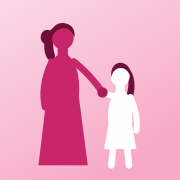
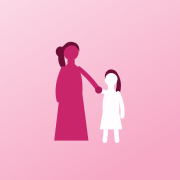
Fix consent-gate bypass, dark-mode wordmark, mobile emergency order, dead code
- ConsentGate: raise its z-index above everything (including the bottom tab
  bar, which tied with it and — being later in the DOM — was rendering on
  top of and staying clickable through the "mandatory" terms modal); add
  role="dialog"/aria-modal, a focus trap, a body scroll lock, and a
  keyboard-focusable scroll region so the box can actually be read without
  a mouse
- Wordmark: --logo-word-dv/-en now resolve to the brand handoff's exact
  colours in light mode and to --rose-deep in dark mode — the literal
  handoff color for the Latin wordmark computed to ~1.3:1 contrast against
  the dark theme's background, effectively invisible
- Home hero: give the emergency panel CSS order priority over the
  decorative mic orb once the layout stacks on a phone, so 108/112 aren't
  pushed down by an illustration
- apple-touch-icon.png regenerated with real safe-zone padding — the
  previous version was close enough to full-bleed that a maskable circular
  crop would have clipped the mark
- Wire the orphaned LiteToggle into the header utility strip (it names its
  own home as "beside language and theme" in its own comment) and fix its
  reference to a nonexistent "fill" icon now that it's actually visible;
  delete EducationCard.jsx, dead code fully superseded by SakhiNavigator's
  own KnowledgeCard

Changed region(s): [[0.1944, 0.1111, 0.7778, 0.9444]]

diff --git a/client/src/components/ConsentGate.jsx b/client/src/components/ConsentGate.jsx
@@ -20,11 +20,44 @@ export default function ConsentGate({ children }) {
   const [checked, setChecked] = useState(false);
   const [reachedEnd, setReachedEnd] = useState(false);
   const scrollRef = useRef(null);
+  const modalRef = useRef(null);
+  const titleId = "consent-gate-title";
 
   useEffect(() => {
     setConsented(sessionStorage.getItem(CONSENT_KEY) === "true");
     setChecked(true);
   }, []);
+
+  // A modal that only *looks* blocking isn't one: lock the page behind it,
+  // hide the bottom tab bar (it shares the header's z-index with nothing
+  // that should ever sit above this), and keep Tab from leaving the dialog.
+  useEffect(() => {
+    if (!checked || consented) return;
+    document.body.classList.add("consent-open");
+    modalRef.current?.focus();
+
+    const onKeyDown = (e) => {
+      if (e.key !== "Tab" || !modalRef.current) return;
+      const focusables = modalRef.current.querySelectorAll(
+        'button:not(:disabled), [href], [tabindex]:not([tabindex="-1"])'
+      );
+      if (!focusables.length) return;
+      const first = focusables[0];
+      const last = focusables[focusables.length - 1];
+      if (e.shiftKey && document.activeElement === first) {
+        e.preventDefault();
+        last.focus();
+      } else if (!e.shiftKey && document.activeElement === last) {
+        e.preventDefault();
+        first.focus();
+      }
+    };
+    document.addEventListener("keydown", onKeyDown);
+    return () => {
+      document.body.classList.remove("consent-open");
+      document.removeEventListener("keydown", onKeyDown);
+    };
+  }, [checked, consented]);
 
   const onScroll = useCallback((e) => {
     const el = e.target;
@@ -52,8 +85,16 @@ export default function ConsentGate({ children }) {
 
   return (
     <div style={overlay}>
-      <div className="card" style={modal}>
-        <h3 className="display" style={{ fontSize: 20, color: "var(--rose-deep)", padding: "22px 24px 4px" }}>
+      <div
+        ref={modalRef}
+        className="card"
+        style={modal}
+        role="dialog"
+        aria-modal="true"
+        aria-labelledby={titleId}
+        tabIndex={-1}
+      >
+        <h3 id={titleId} className="display" style={{ fontSize: 20, color: "var(--rose-deep)", padding: "22px 24px 4px" }}>
           {t("terms_page_title")}
         </h3>
 
@@ -61,6 +102,8 @@ export default function ConsentGate({ children }) {
           ref={scrollRef}
           onScroll={onScroll}
           style={scrollBox}
+          tabIndex={0}
+          role="document"
         >
           {TERMS_SECTIONS.map((s) => (
             <section key={s.titleKey} style={{ marginBottom: 16 }}>
@@ -87,8 +130,11 @@ export default function ConsentGate({ children }) {
 }
 
 const overlay = {
+  // Above everything else in the app on purpose — the virtual keyboard (90)
+  // included. A "mandatory" gate that another fixed-position element can
+  // out-rank isn't mandatory.
   position: "fixed", inset: 0, background: "var(--overlay)",
-  zIndex: 60, display: "flex", alignItems: "center", justifyContent: "center", padding: 20,
+  zIndex: 100, display: "flex", alignItems: "center", justifyContent: "center", padding: 20,
 };
 const modal = { maxWidth: 480, width: "100%", padding: 0, display: "flex", flexDirection: "column", maxHeight: "min(640px, 88vh)" };
 const scrollBox = {

diff --git a/client/src/index.css b/client/src/index.css
@@ -18,6 +18,14 @@
   --gold: #C9A24B;
   --on-brand: #FFFFFF;
 
+  /* The Sakhi wordmark's own colours (Logo.jsx), reproduced exactly from the
+     brand handoff for light surfaces. They have no dark-theme value of their
+     own in the handoff — #4A1230 on the dark theme's near-black background
+     computes to ~1.3:1 contrast, functionally invisible — so the dark block
+     below points both at --rose-deep, which was already tuned for this. */
+  --logo-word-dv: #C9256B;
+  --logo-word-en: #4A1230;
+
   /* Surfaces */
   --cream: #FDF8F6;
   --cream-dim: #F5ECE8;
@@ -95,6 +103,11 @@
   --rose-soft: #4A2732;
   --gold: #D9B76A;
   --on-brand: #24151A;
+
+  /* ~10:1 against the dark theme's background, vs. ~1.3:1 for the literal
+     handoff colour — see the note on these tokens at :root. */
+  --logo-word-dv: var(--rose-deep);
+  --logo-word-en: var(--rose-deep);
 
   --cream: #171013;
   --cream-dim: #241A1E;
@@ -844,6 +857,10 @@ input::placeholder, textarea::placeholder { color: var(--ink-muted); }
 /* Keep the field being typed into clear of the docked panel. */
 body.kbd-open { padding-bottom: 52vh; }
 
+/* ConsentGate: lock the page behind the terms modal so it can't be scrolled
+   or reached — see ConsentGate.jsx for the focus trap and z-index note. */
+body.consent-open { overflow: hidden; }
+
 @media (max-width: 640px) {
   .kbd-key { min-width: 30px; font-size: 17px; min-height: 40px; }
 }
@@ -1079,6 +1096,12 @@ body.kbd-open { padding-bottom: 52vh; }
 @media (max-width: 900px) {
   .voice-hero-inner { justify-content: center; text-align: center; }
   .voice-actions { justify-content: center; }
+  /* Once the hero wraps to a single column, the emergency numbers outrank
+     the decorative orb — a phone stacking these in DOM order would put a
+     190px illustration between the headline and 108/112. */
+  .voice-copy { order: 1; }
+  .hero-emergency { order: 2; }
+  .voice-orb-wrap { order: 3; margin-top: 8px; }
 }
 
 /* ---------------------------------------------------------------------------
@@ -1631,7 +1654,7 @@ body.kbd-open { padding-bottom: 52vh; }
   font-family: 'Tiro Devanagari Hindi', serif;
   font-size: 26px;
   line-height: 1.25;
-  color: #C9256B;
+  color: var(--logo-word-dv);
 }
 .logo-wordmark-en {
   font-family: 'Mukta', sans-serif;
@@ -1639,7 +1662,7 @@ body.kbd-open { padding-bottom: 52vh; }
   font-size: 12.5px;
   letter-spacing: 0.28em;
   text-transform: uppercase;
-  color: #4A1230;
+  color: var(--logo-word-en);
 }
 .logo-wordmark-reversed .logo-wordmark-dv { color: #FFFDFE; }
 .logo-wordmark-reversed .logo-wordmark-en { color: #F7C9DC; }
@@ -1726,6 +1749,10 @@ body.kbd-open { padding-bottom: 52vh; }
      owns the bottom of the screen, so the tab bar steps aside rather than
      stacking two bars on top of each other. */
   body.kbd-open .bottom-nav { display: none; }
+  /* Belt and braces alongside ConsentGate's own z-index: a hidden element
+     can't be tapped through the mandatory terms modal, and it drops out of
+     the tab order too. */
+  body.consent-open .bottom-nav { display: none; }
 
   .bottom-nav-item {
     position: relative;

diff --git a/client/src/pages/Home.jsx b/client/src/pages/Home.jsx
@@ -104,8 +104,10 @@ export default function Home() {
 
           {/* Emergency panel, deliberately at the top right rather than buried
               in a footer. Someone who needs 108 needs it before anything else
-              on this page. */}
-          <aside style={styles.emergencyPanel}>
+              on this page — including before the decorative orb, which is why
+              hero-emergency gets priority over voice-orb-wrap once the layout
+              stacks on a phone (see the mobile block in index.css). */}
+          <aside className="hero-emergency" style={styles.emergencyPanel}>
             <div style={styles.emergencyTitle}>
               <Icon name="alert" size={19} />
               {t("home_emergency_title")}

diff --git a/client/src/components/Navbar.jsx b/client/src/components/Navbar.jsx
@@ -6,6 +6,7 @@ import { useUser } from "../context/UserContext.jsx";
 import { NAV } from "../navConfig.js";
 import LanguagePicker from "./LanguagePicker.jsx";
 import ThemeToggle from "./ThemeToggle.jsx";
+import LiteToggle from "./LiteToggle.jsx";
 import Icon from "./Icon.jsx";
 import Logo from "./Logo.jsx";
 
@@ -104,6 +105,7 @@ export default function Navbar() {
             <span className="utility-note">Free · No account needed · Nothing is tied to your name</span>
           </div>
           <div className="utility-right">
+            <LiteToggle />
             <LanguagePicker />
             <ThemeToggle />
           </div>

diff --git a/client/src/components/LiteToggle.jsx b/client/src/components/LiteToggle.jsx
@@ -20,7 +20,7 @@ export default function LiteToggle() {
       aria-pressed={lite}
       title={lite ? t("lite_on_hint") : t("lite_off_hint")}
     >
-      <Icon name={lite ? "drop" : "fill"} size={14} />
+      <Icon name={lite ? "drop" : "globe"} size={14} />
       <span>{lite ? t("lite_on") : t("lite_off")}</span>
     </button>
   );
